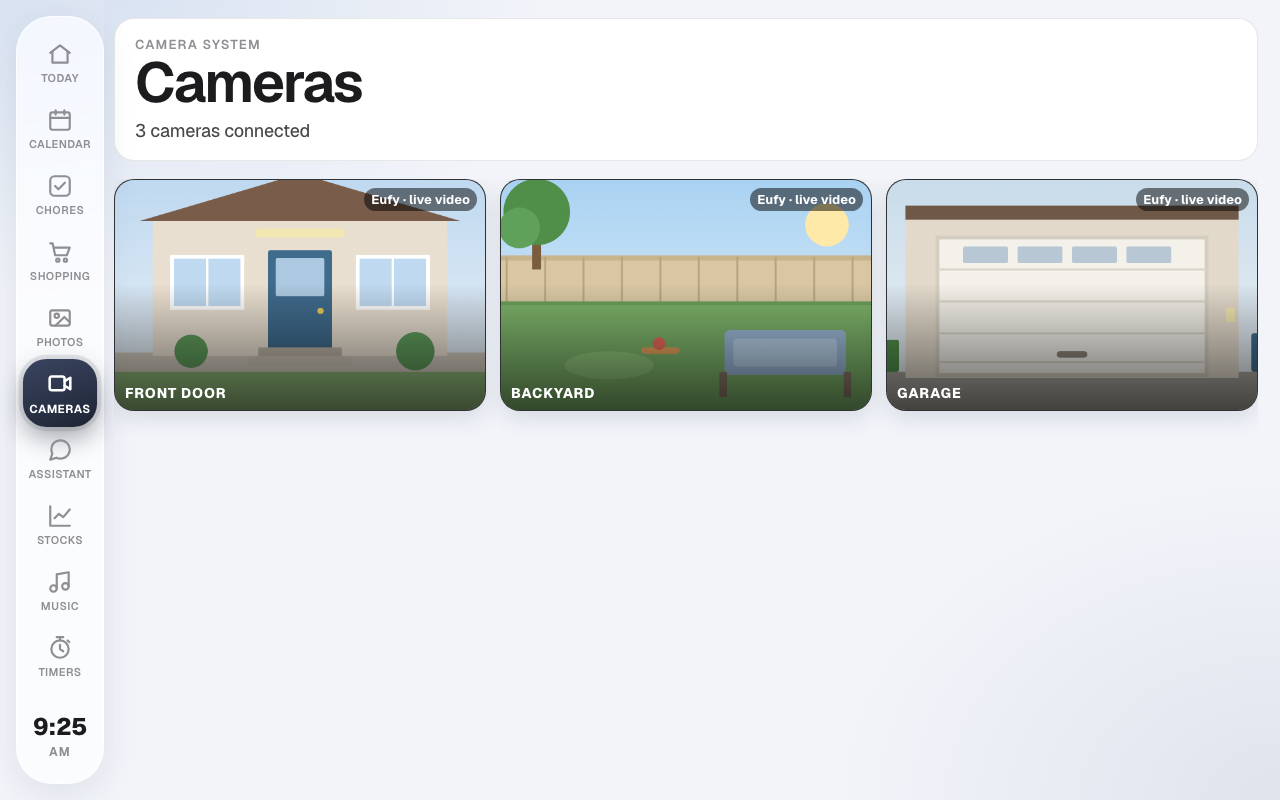
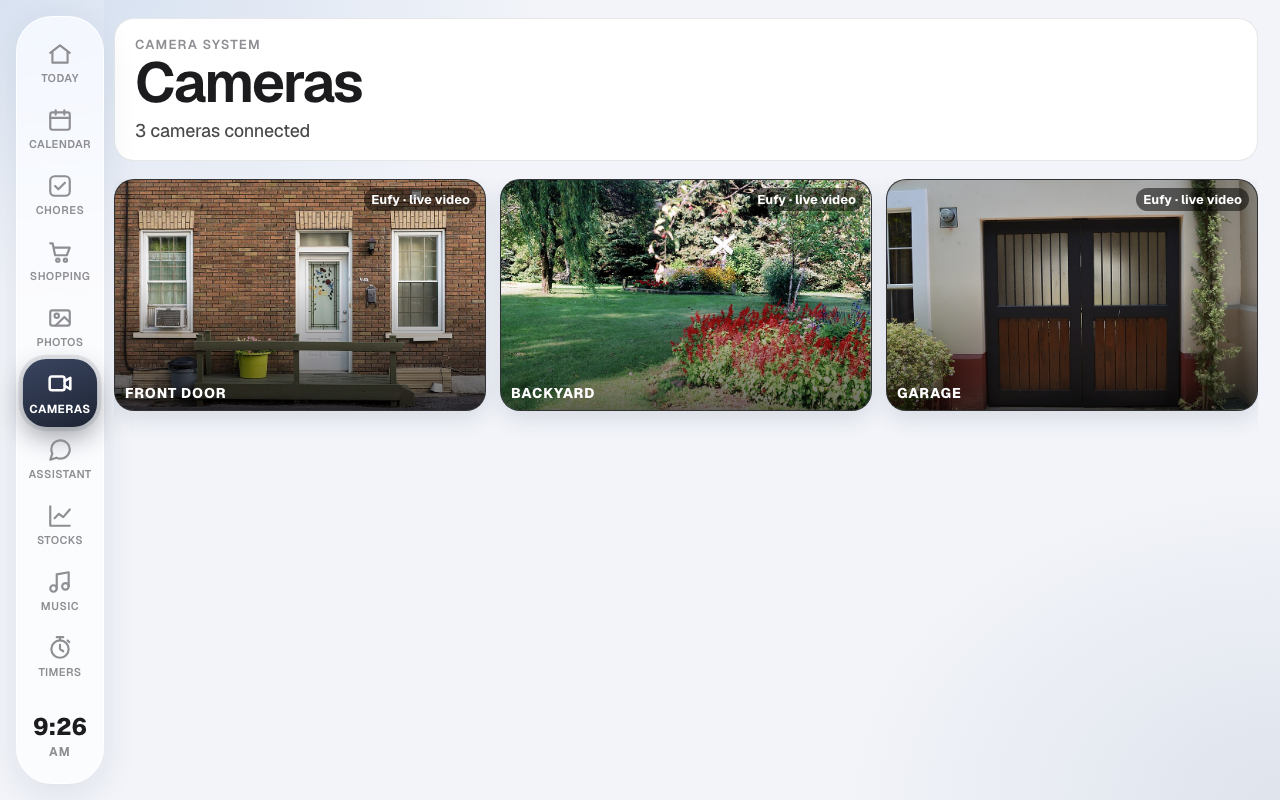
docs: use Wikimedia stock photos for camera screenshots with credits

Changed region(s): [[0.0625, 0.2188, 1.0, 0.5312]]

diff --git a/docs/images/tabs/CREDITS.md b/docs/images/tabs/CREDITS.md
@@ -1,0 +1,9 @@
+# Screenshot credits
+
+The camera thumbnails in `control-day.png` and `control-night.png` are sample images from Wikimedia Commons:
+
+- Front door: [House front with a green porch, Vieux-Limoilou](https://commons.wikimedia.org/wiki/File:House_front_with_a_green_porch,_Vieux-Limoilou.jpg) by Wilfredor, [CC BY-SA 4.0](https://creativecommons.org/licenses/by-sa/4.0/).
+- Backyard: [Garden, Donnie's Farm, Perkins, IA](https://commons.wikimedia.org/wiki/File:Garden,_Donnie%27s_Farm,_Perkins,_IA_9-2005_(6576488913).jpg) by inkknife_2000, [CC BY-SA 2.0](https://creativecommons.org/licenses/by-sa/2.0/).
+- Garage: [Garage Door - House](https://commons.wikimedia.org/wiki/File:Garage_Door_-_House.jpg) by amslerPIX, [CC BY 2.0](https://creativecommons.org/licenses/by/2.0/).
+
+The photos are cropped by the dashboard to fit the camera cards. All other screenshot content is sample data.

diff --git a/README.md b/README.md
@@ -27,7 +27,7 @@ together in a touch-friendly display designed to stay visible across the room.
 ## Screenshots of every tab
 
 <details>
-<summary>Day and night views of all ten tabs (sample data)</summary>
+<summary>Day and night views of all ten tabs (sample data; camera photo credits in <a href="docs/images/tabs/CREDITS.md">CREDITS</a>)</summary>
 
 <table>
   <tr>
